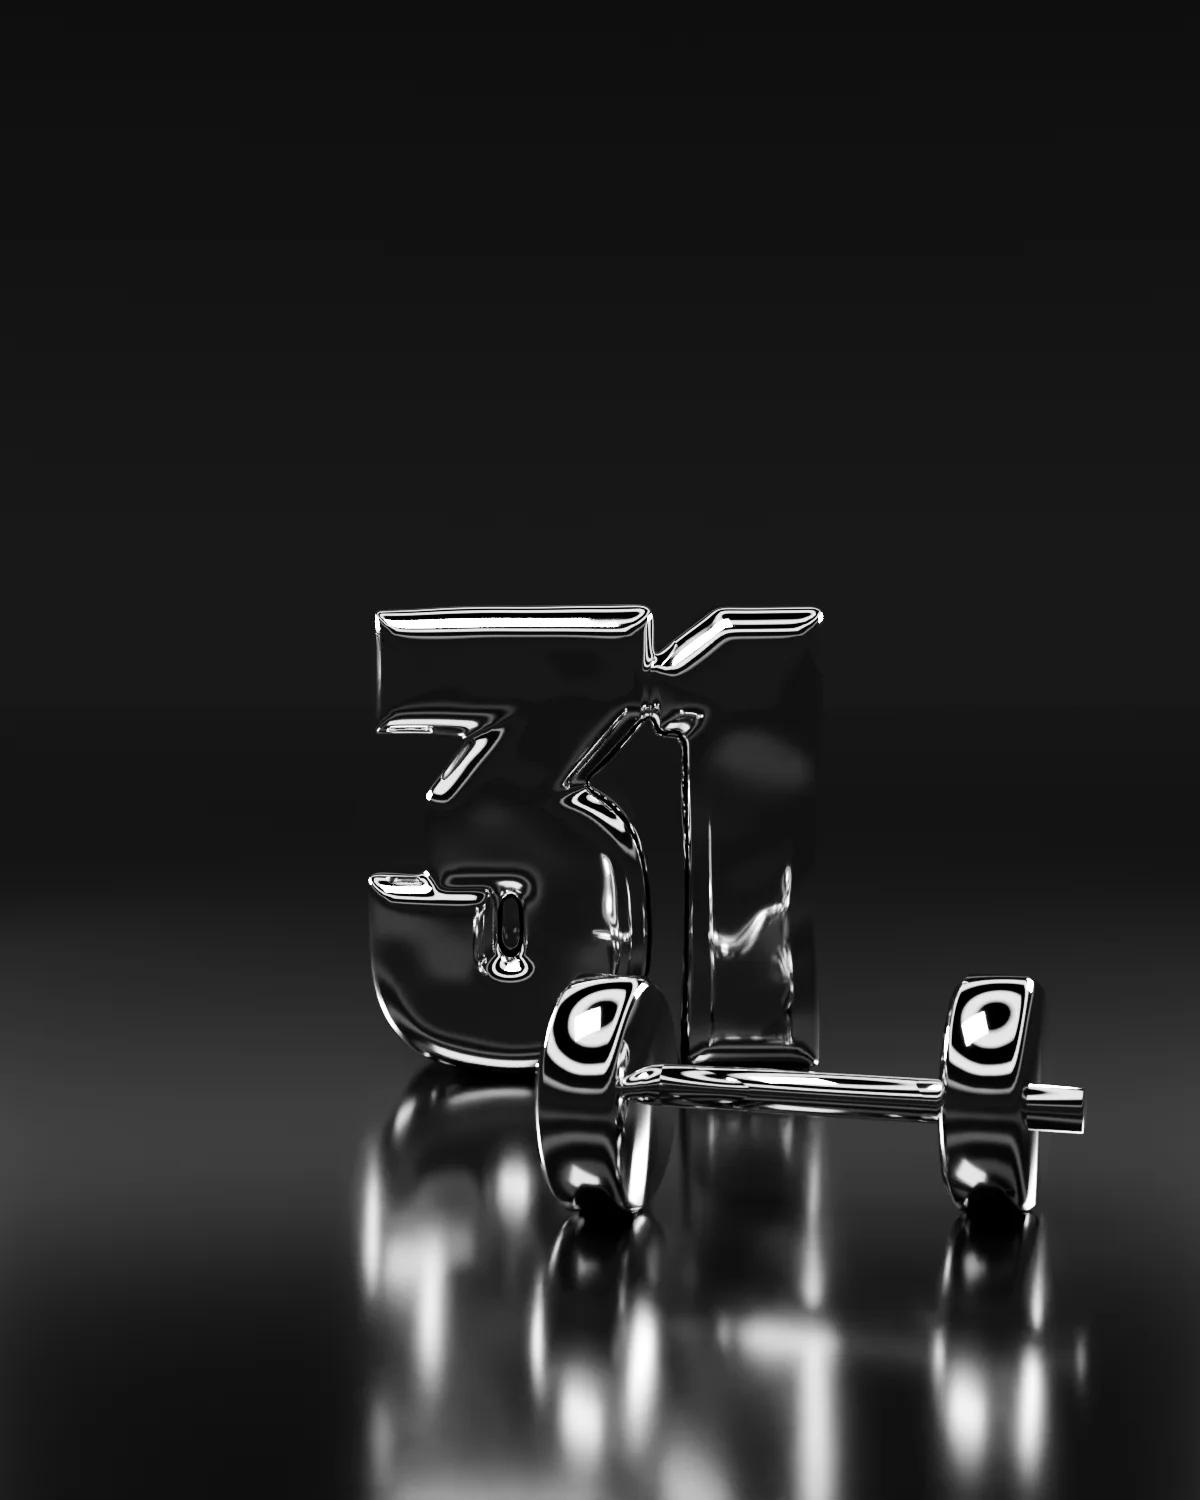
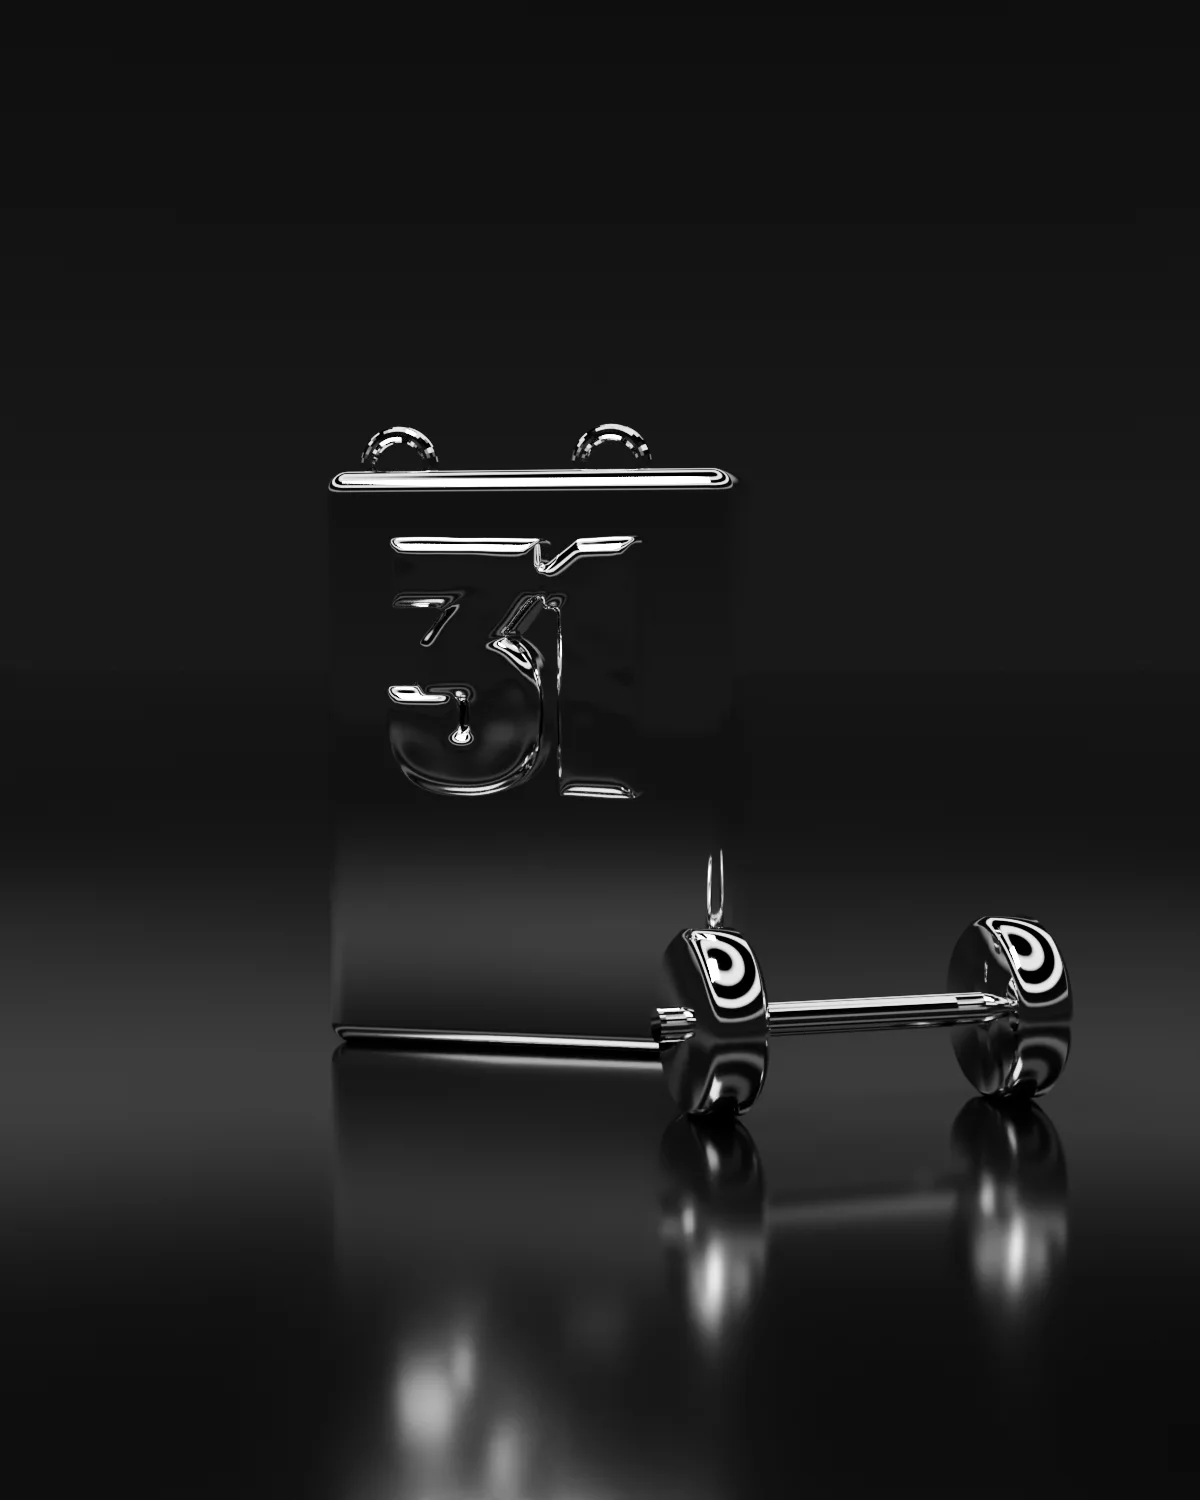
Posters: product sculptures in their own window, type below
Each poster is now three bands that never overlap: a meta line, the
art in its own window, and the title with one plain sentence and the
status. The art depicts each product as a chrome sculpture instead of
a screenshot: a market stall (EzVenda), beans on a sumo ring (Mini
Havoc), a calendar at 31 with a dumbbell (GymPaid), streams pouring
into one pool (Photon to Elixir), mercury speech bubbles (Arthur
Vibe) and a field of solar panels (PV Smith).

Changed region(s): [[0.2775, 0.276, 0.925, 1.0], [0.9867, 0.7973, 1.0, 0.8587], [0.0, 0.828, 0.0308, 0.8587]]

diff --git a/src/data/posters.ts b/src/data/posters.ts
@@ -1,5 +1,6 @@
-// The project posters: grayscale Blender scenes (art/blender/poster.py, rendered by art/posters.sh)
-// with real type on top. Representations, not screenshots: the real screens live on the case pages.
+// The project posters: a grayscale Blender scene that depicts each product as a sculpture
+// (art/blender/poster.py, rendered by art/posters.sh), with the type in its own band below it.
+// Representations, not screenshots: the real screens live on the case pages.
 import type { ImageMetadata } from 'astro';
 import ezArt from '../assets/posters/ezvenda-art.webp';
 import mhArt from '../assets/posters/mini-havoc-art.webp';
@@ -33,7 +34,7 @@ export const posters: Record<string, Poster> = {
     index: '01',
     kind: 'Commerce platform',
     meta: ['2026', 'Founder, design, code'],
-    caption: 'Hosted shops with cash on delivery for small merchants in Pakistan.',
+    caption: 'Online shops for small sellers in Pakistan, paid cash on delivery.',
     status: 'Live',
     live: true,
     art: ezArt,
@@ -45,7 +46,7 @@ export const posters: Record<string, Poster> = {
     index: '02',
     kind: 'Multiplayer party games',
     meta: ['2026', 'Founder, design, code'],
-    caption: 'Party games on everyone’s phone. 23 games, up to 24 players.',
+    caption: 'Party games for friends, played on everyone’s phone.',
     status: 'Live',
     live: true,
     art: mhArt,
@@ -57,7 +58,7 @@ export const posters: Record<string, Poster> = {
     index: '03',
     kind: 'Gym memberships',
     meta: ['2026', 'Built in two days'],
-    caption: 'A member who pays on the 31st stays on the 31st, even through February.',
+    caption: 'Memberships and renewals for a gym that ran on paper.',
     status: 'In hand-over',
     art: gpArt,
   },
@@ -68,7 +69,7 @@ export const posters: Record<string, Poster> = {
     index: '04',
     kind: 'Real-time sync',
     meta: ['Arthur', 'Under NDA'],
-    caption: 'Many long-lived streams on Node, moved to channels on the BEAM.',
+    caption: 'Real-time room and file sync, moved from Node to Elixir.',
     status: 'Shipped',
     art: phArt,
   },
@@ -79,7 +80,7 @@ export const posters: Record<string, Poster> = {
     index: '05',
     kind: 'AI interviews',
     meta: ['Arthur', 'Under NDA'],
-    caption: 'An AI that runs the interviews, then writes the report you can question.',
+    caption: 'An AI that interviews your team, then writes the report.',
     status: 'Shipped',
     art: viArt,
   },
@@ -90,7 +91,7 @@ export const posters: Record<string, Poster> = {
     index: '06',
     kind: 'Solar design tool',
     meta: ['BH Group', '2022 to 2023'],
-    caption: 'Design and simulate a solar system, then print a 24-page report.',
+    caption: 'Design a solar system, simulate it, print the report.',
     status: 'pvx.ai',
     art: bhArt,
   },

diff --git a/art/blender/poster.py b/art/blender/poster.py
@@ -244,7 +244,8 @@ def studio(floor_grey=0.004, wall_top=0.0, wall_horizon=0.03, light=False):
             lo.visible_glossy = False
 
 
-def camera(target=(0, 0, 1.0), dist=7.5, height=1.6, lens=60):
+def camera(target=(0, 0, 1.0), dist=7.5, height=1.6, lens=60, yaw=0.0):
+    """yaw swings the camera around the target (degrees; positive looks from the right)."""
     cam = bpy.data.cameras.new('c')
     cam.lens = lens
     cam.sensor_fit = 'VERTICAL'
@@ -252,7 +253,8 @@ def camera(target=(0, 0, 1.0), dist=7.5, height=1.6, lens=60):
     co = bpy.data.objects.new('c', cam)
     col.objects.link(co)
     scene.camera = co
-    co.location = (target[0], -dist, height)
+    a = math.radians(yaw)
+    co.location = (target[0] + dist * math.sin(a), target[1] - dist * math.cos(a), height)
     d = Vector(target) - co.location
     co.rotation_euler = d.to_track_quat('-Z', 'Y').to_euler()
     cam.dof.use_dof = True
@@ -360,6 +362,149 @@ elif scene_name == 'ez-phone':
     sc.data.materials.append(m)
     ground(text('Rs', 0.9, (1.45, -0.7, 0.4), extrude=0.12))
     camera(target=(0.2, 0.2, 1.35), dist=8.6, height=1.6, lens=58)
+elif scene_name == 'p-ezvenda':
+    # A market stall: a scalloped awning on two posts over a counter of bags and boxes.
+    def box(loc, scale, rot=0.0, bev=0.03):
+        bpy.ops.mesh.primitive_cube_add(size=1, location=loc)
+        o = bpy.context.active_object
+        o.scale = scale
+        bpy.ops.object.transform_apply(scale=True)
+        o.rotation_euler = (0, 0, rot)
+        m = o.modifiers.new('b', 'BEVEL')
+        m.width = bev
+        m.segments = 6
+        o.data.materials.append(CHROME)
+        bpy.ops.object.shade_smooth()
+        return o
+    box((0, 0.6, 0.55), (2.6, 0.9, 1.1), bev=0.05)            # counter
+    for x in (-1.25, 1.25):
+        bpy.ops.mesh.primitive_cylinder_add(radius=0.05, depth=2.4, location=(x, 1.0, 1.7), vertices=32)
+        bpy.context.active_object.data.materials.append(CHROME)
+    # The awning: a tilted slab with a row of half-discs along its front edge.
+    aw = box((0, 0.55, 2.85), (2.9, 1.3, 0.06), bev=0.02)
+    aw.rotation_euler = (math.radians(-16), 0, 0)
+    for i in range(7):
+        x = -1.24 + i * 0.413
+        bpy.ops.mesh.primitive_cylinder_add(radius=0.24, depth=0.06, location=(x, -0.08, 2.6), rotation=(math.radians(90), 0, 0), vertices=48)
+        c = bpy.context.active_object
+        c.data.materials.append(CHROME)
+        bpy.ops.object.shade_smooth()
+    # Goods on the counter: a bag, boxes, a jar.
+    bag = box((-0.65, 0.5, 1.45), (0.55, 0.3, 0.7), rot=math.radians(18))
+    for x in (-0.8, -0.5):
+        bpy.ops.mesh.primitive_torus_add(major_radius=0.12, minor_radius=0.02, location=(x, 0.5, 1.86), rotation=(math.radians(90), 0, math.radians(18)), major_segments=48, minor_segments=16)
+        bpy.context.active_object.data.materials.append(CHROME)
+    box((0.25, 0.55, 1.28), (0.5, 0.45, 0.36), rot=math.radians(-12))
+    box((0.3, 0.55, 1.62), (0.36, 0.34, 0.3), rot=math.radians(9))
+    sphere((0.95, 0.5, 1.33), (0.22, 0.22, 0.24))
+    camera(target=(0, 0.5, 1.5), dist=8.4, height=1.7, lens=54, yaw=30)
+elif scene_name == 'p-havoc':
+    # Beans on a sumo ring; one is being shoved off the edge.
+    bpy.ops.mesh.primitive_cylinder_add(radius=1.9, depth=0.32, location=(0, 0.8, 0.16), vertices=128)
+    ring = bpy.context.active_object
+    bv = ring.modifiers.new('b', 'BEVEL')
+    bv.width = 0.06
+    bv.segments = 8
+    ring.data.materials.append(CHROME)
+    bpy.ops.object.shade_smooth()
+    bpy.ops.mesh.primitive_torus_add(major_radius=1.55, minor_radius=0.025, location=(0, 0.8, 0.33), major_segments=128, minor_segments=12)
+    bpy.context.active_object.data.materials.append(mat_plain(0.02, 0.4, 'line'))
+    bean((-0.55, 0.9, 0.32), 0.85, math.radians(-30))
+    bean((0.35, 0.55, 0.32), 0.7, math.radians(20))
+    bean((1.75, 0.2, 0.55), 0.62, math.radians(40), math.radians(-38))  # going over the edge
+    camera(target=(0.2, 0.7, 0.8), dist=8.4, height=2.6, lens=54)
+elif scene_name == 'p-gympaid':
+    # A tear-off calendar standing on 31, a dumbbell leaning on it.
+    bpy.ops.mesh.primitive_cube_add(size=1, location=(0, 0.6, 1.05))
+    cal = bpy.context.active_object
+    cal.scale = (1.5, 0.5, 2.1)
+    bpy.ops.object.transform_apply(scale=True)
+    m = cal.modifiers.new('b', 'BEVEL')
+    m.width = 0.08
+    m.segments = 8
+    cal.data.materials.append(CHROME)
+    bpy.ops.object.shade_smooth()
+    cal.rotation_euler = (0, 0, math.radians(-12))
+    for x in (-0.4, 0.4):
+        bpy.ops.mesh.primitive_torus_add(major_radius=0.12, minor_radius=0.03, location=(x * math.cos(math.radians(-12)), 0.6 + x * math.sin(math.radians(-12)), 2.12), rotation=(math.radians(90), 0, math.radians(-12)), major_segments=48, minor_segments=16)
+        bpy.context.active_object.data.materials.append(CHROME)
+    t = text('31', 1.25, (0, 0, 1.0), extrude=0.06)
+    t.rotation_euler = (math.radians(90), 0, math.radians(-12))
+    t.location = (0.06, 0.6 - 0.27, 1.0)
+    for x in (-0.55, 0.55):
+        bpy.ops.mesh.primitive_cylinder_add(radius=0.3, depth=0.2, location=(1.2 + x * 0.9, -0.55 + x * 0.25, 0.3), vertices=96)
+        d = bpy.context.active_object
+        d.rotation_euler = (0, math.radians(90), math.radians(16))
+        d.modifiers.new('b', 'BEVEL').width = 0.03
+        d.data.materials.append(CHROME)
+        bpy.ops.object.shade_smooth()
+    bpy.ops.mesh.primitive_cylinder_add(radius=0.055, depth=1.4, location=(1.2, -0.55, 0.3), vertices=48)
+    bar = bpy.context.active_object
+    bar.rotation_euler = (0, math.radians(90), math.radians(16))
+    bar.data.materials.append(CHROME)
+    camera(target=(0.35, 0.3, 1.1), dist=8.6, height=1.7, lens=58)
+elif scene_name == 'p-vibe':
+    # Two speech bubbles: a question asked, an answer coming back.
+    def bubble(loc, w, h, tail_left):
+        # A speech bubble poured as mercury: a soft rounded body and a tail of drops.
+        mb = bpy.data.metaballs.new('bubble')
+        mb.resolution = 0.03
+        mb.render_resolution = 0.01
+        mb.threshold = 0.6
+        body = mb.elements.new(type='ELLIPSOID')
+        body.co = (0, 0, 0)
+        body.radius = 2.0
+        body.size_x, body.size_y, body.size_z = w * 0.5, 0.26, h * 0.5
+        side = -1 if tail_left else 1
+        for k, (dx, dz, r) in enumerate([(0.3, -0.62, 0.32), (0.4, -0.88, 0.2), (0.48, -1.06, 0.12)]):
+            e = mb.elements.new(type='BALL')
+            e.co = (side * w * dx, 0, h * dz)
+            e.radius = r * 1.9
+        o = bpy.data.objects.new('bubble', mb)
+        col.objects.link(o)
+        o.location = loc
+        o.data.materials.append(CHROME)
+        return o
+    bubble((-0.55, 0.6, 2.35), 1.7, 1.05, True)
+    bubble((0.75, 0.2, 0.95), 1.45, 0.85, False)
+    q = text('?', 0.85, (-0.55, -0.02, 2.02), extrude=0.06)
+    q.location.y = -0.02
+    for i, x in enumerate((0.42, 0.75, 1.08)):
+        sphere((x, -0.38, 0.95), (0.12, 0.12, 0.12), EYE)
+    camera(target=(0.05, 0.4, 1.6), dist=8.6, height=1.9, lens=56, yaw=-28)
+elif scene_name == 'p-solar':
+    # Solar glass: near-black and glossy, with a lighter grid of cells.
+    CELLS = bpy.data.materials.new('cells')
+    CELLS.use_nodes = True
+    cn = CELLS.node_tree
+    pb = cn.nodes['Principled BSDF']
+    pb.inputs['Roughness'].default_value = 0.12
+    br = cn.nodes.new('ShaderNodeTexBrick')
+    br.offset = 0.0
+    br.inputs['Color1'].default_value = (0.012, 0.012, 0.012, 1)
+    br.inputs['Color2'].default_value = (0.02, 0.02, 0.02, 1)
+    br.inputs['Mortar'].default_value = (0.55, 0.55, 0.55, 1)
+    br.inputs['Scale'].default_value = 9.0
+    br.inputs['Mortar Size'].default_value = 0.012
+    br.inputs['Brick Width'].default_value = 0.5
+    br.inputs['Row Height'].default_value = 0.5
+    tc = cn.nodes.new('ShaderNodeTexCoord')
+    cn.links.new(tc.outputs['Object'], br.inputs['Vector'])
+    cn.links.new(br.outputs['Color'], pb.inputs['Base Color'])
+    # Solar panels tilted toward a chrome sun.
+    for r in range(3):
+        for c in range(4):
+            bpy.ops.mesh.primitive_cube_add(size=1, location=(-1.35 + c * 0.9, 0.2 + r * 0.95, 0.35 + r * 0.05))
+            pnl = bpy.context.active_object
+            pnl.scale = (0.8, 0.55, 0.035)
+            bpy.ops.object.transform_apply(scale=True)
+            pnl.rotation_euler = (math.radians(38), 0, 0)
+            pnl.modifiers.new('b', 'BEVEL').width = 0.012
+            pnl.data.materials.append(CELLS)
+            bpy.ops.mesh.primitive_cylinder_add(radius=0.02, depth=0.36, location=(-1.35 + c * 0.9, 0.35 + r * 0.95, 0.18), vertices=16)
+            bpy.context.active_object.data.materials.append(CHROME)
+    sphere((1.9, 4.6, 3.0), (0.75, 0.75, 0.75))
+    camera(target=(0, 1.1, 0.9), dist=8.0, height=2.0, lens=52, yaw=34)
 elif scene_name == 'mini-havoc':
     bean((0, 0.2, 0), 1.0, math.radians(-10))
     bean((-1.25, 1.0, 0), 0.75, math.radians(18))
